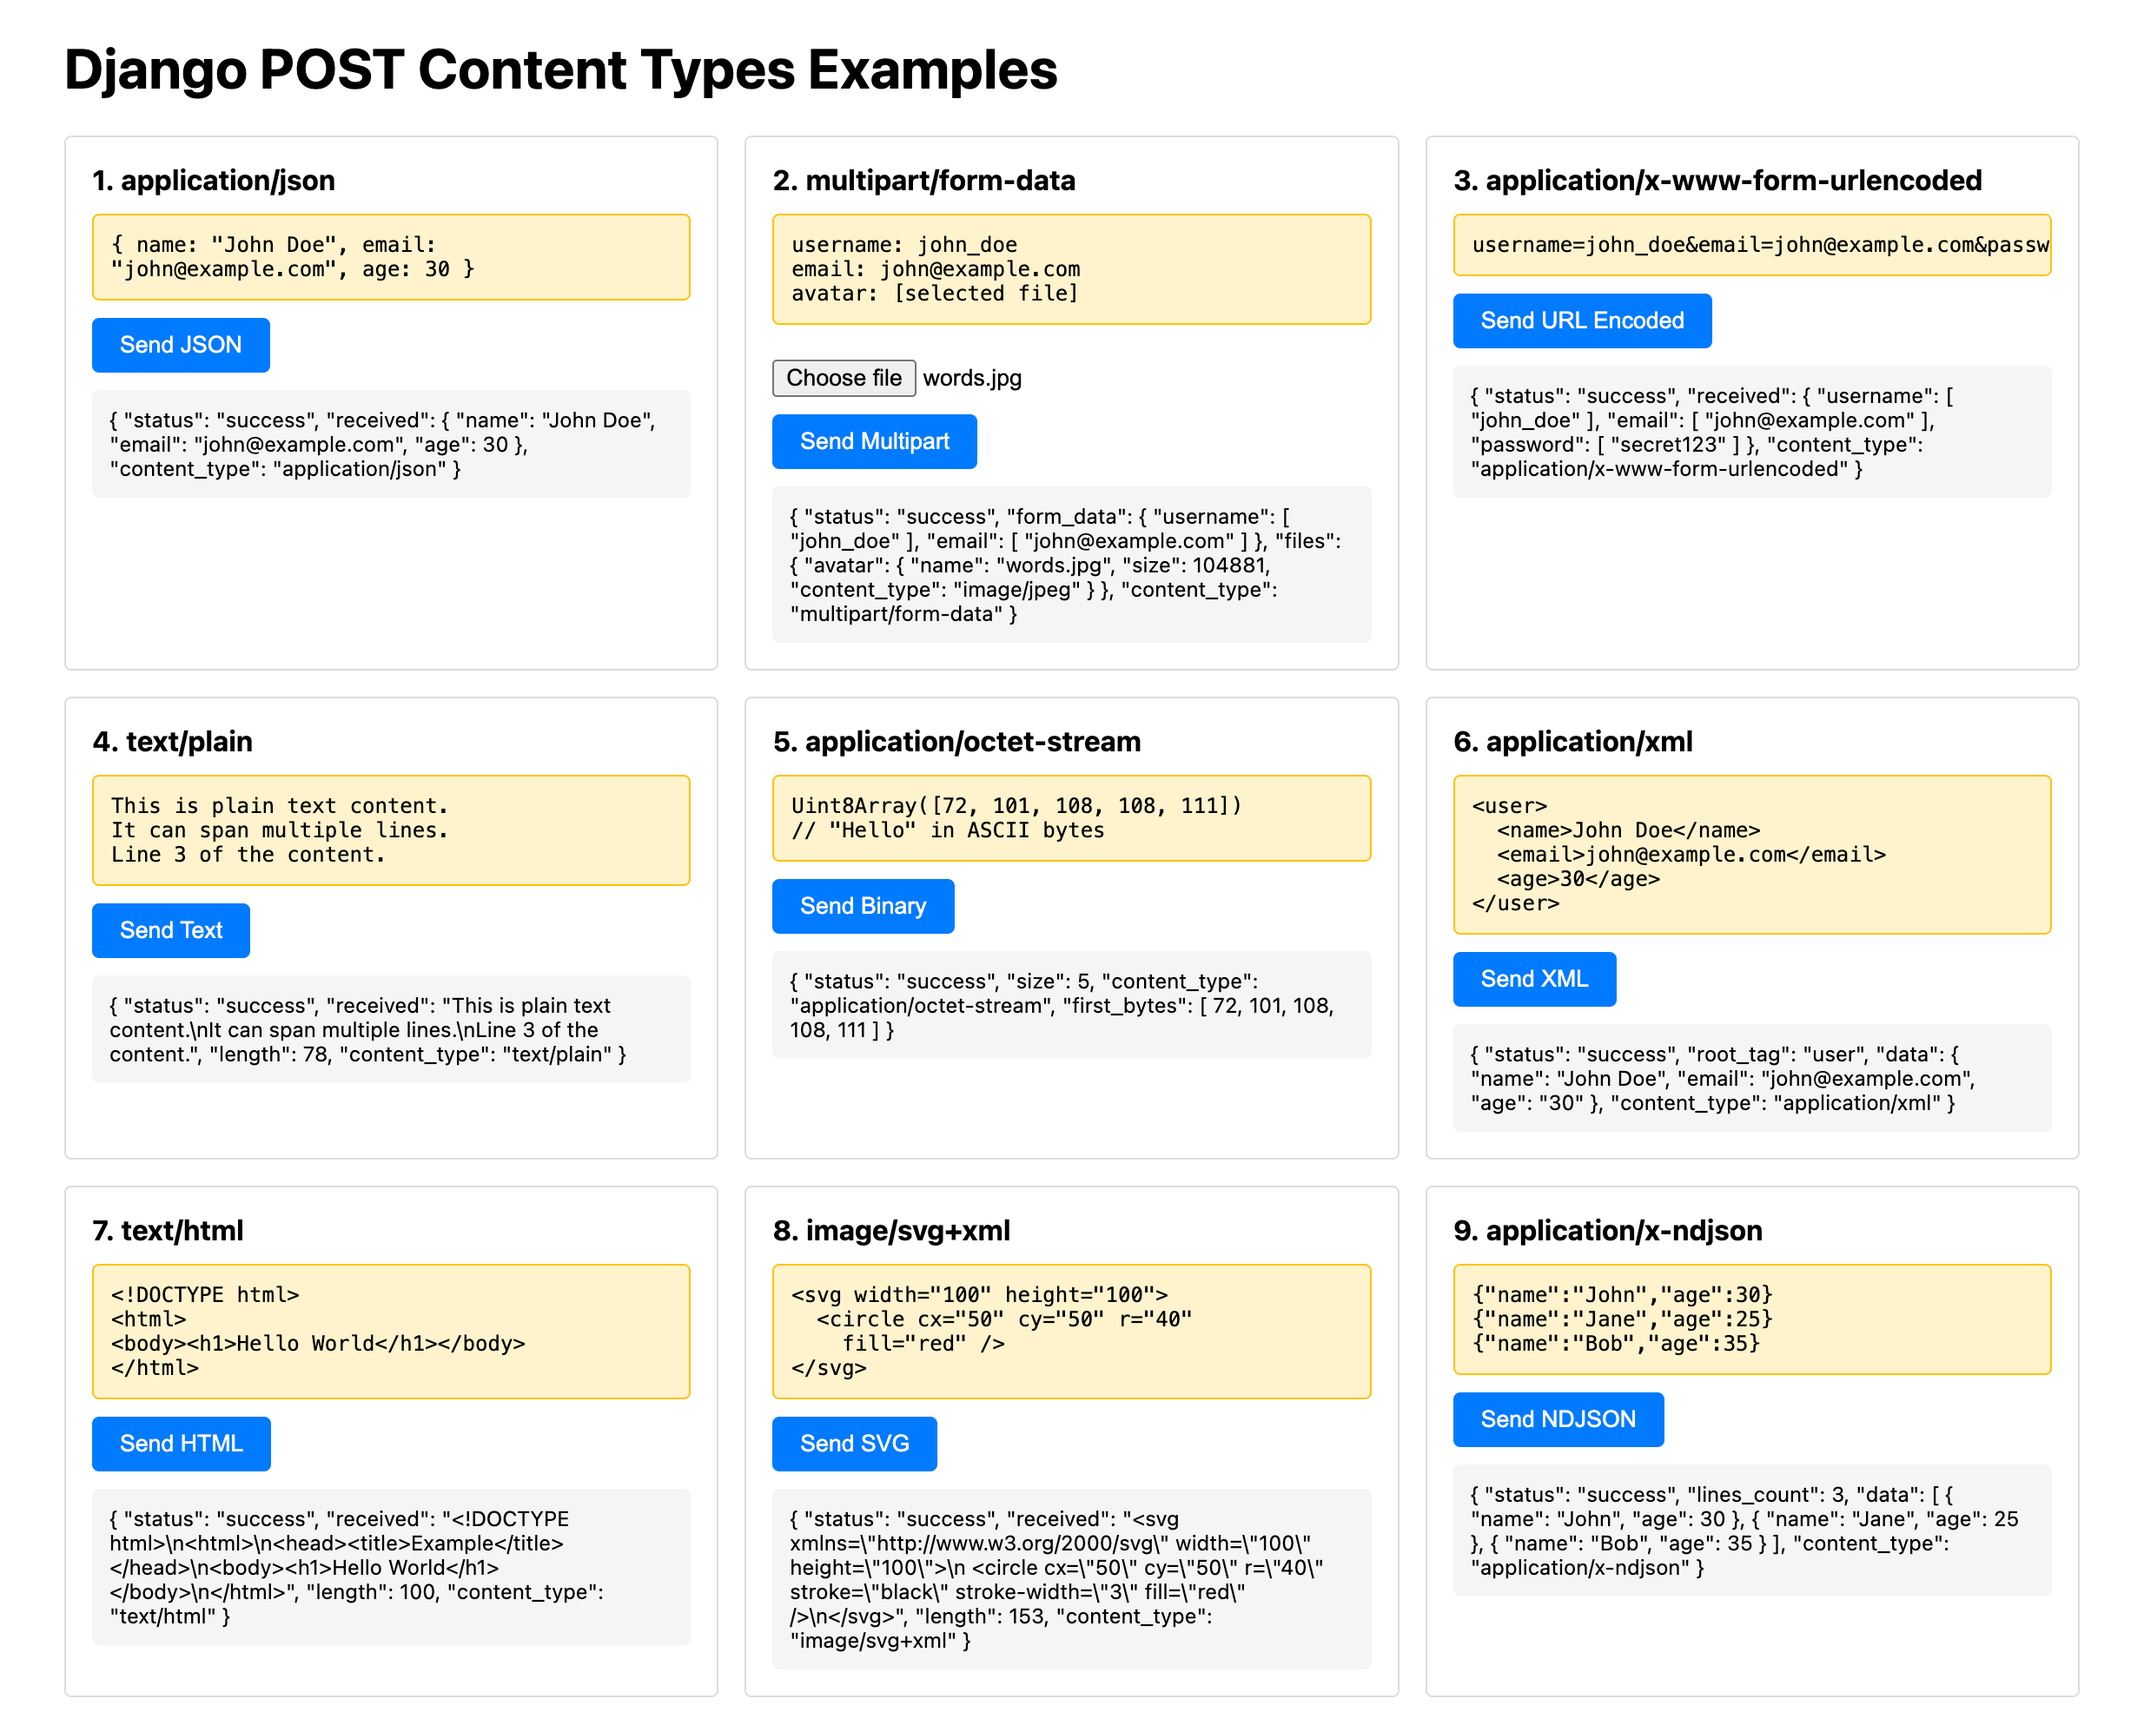
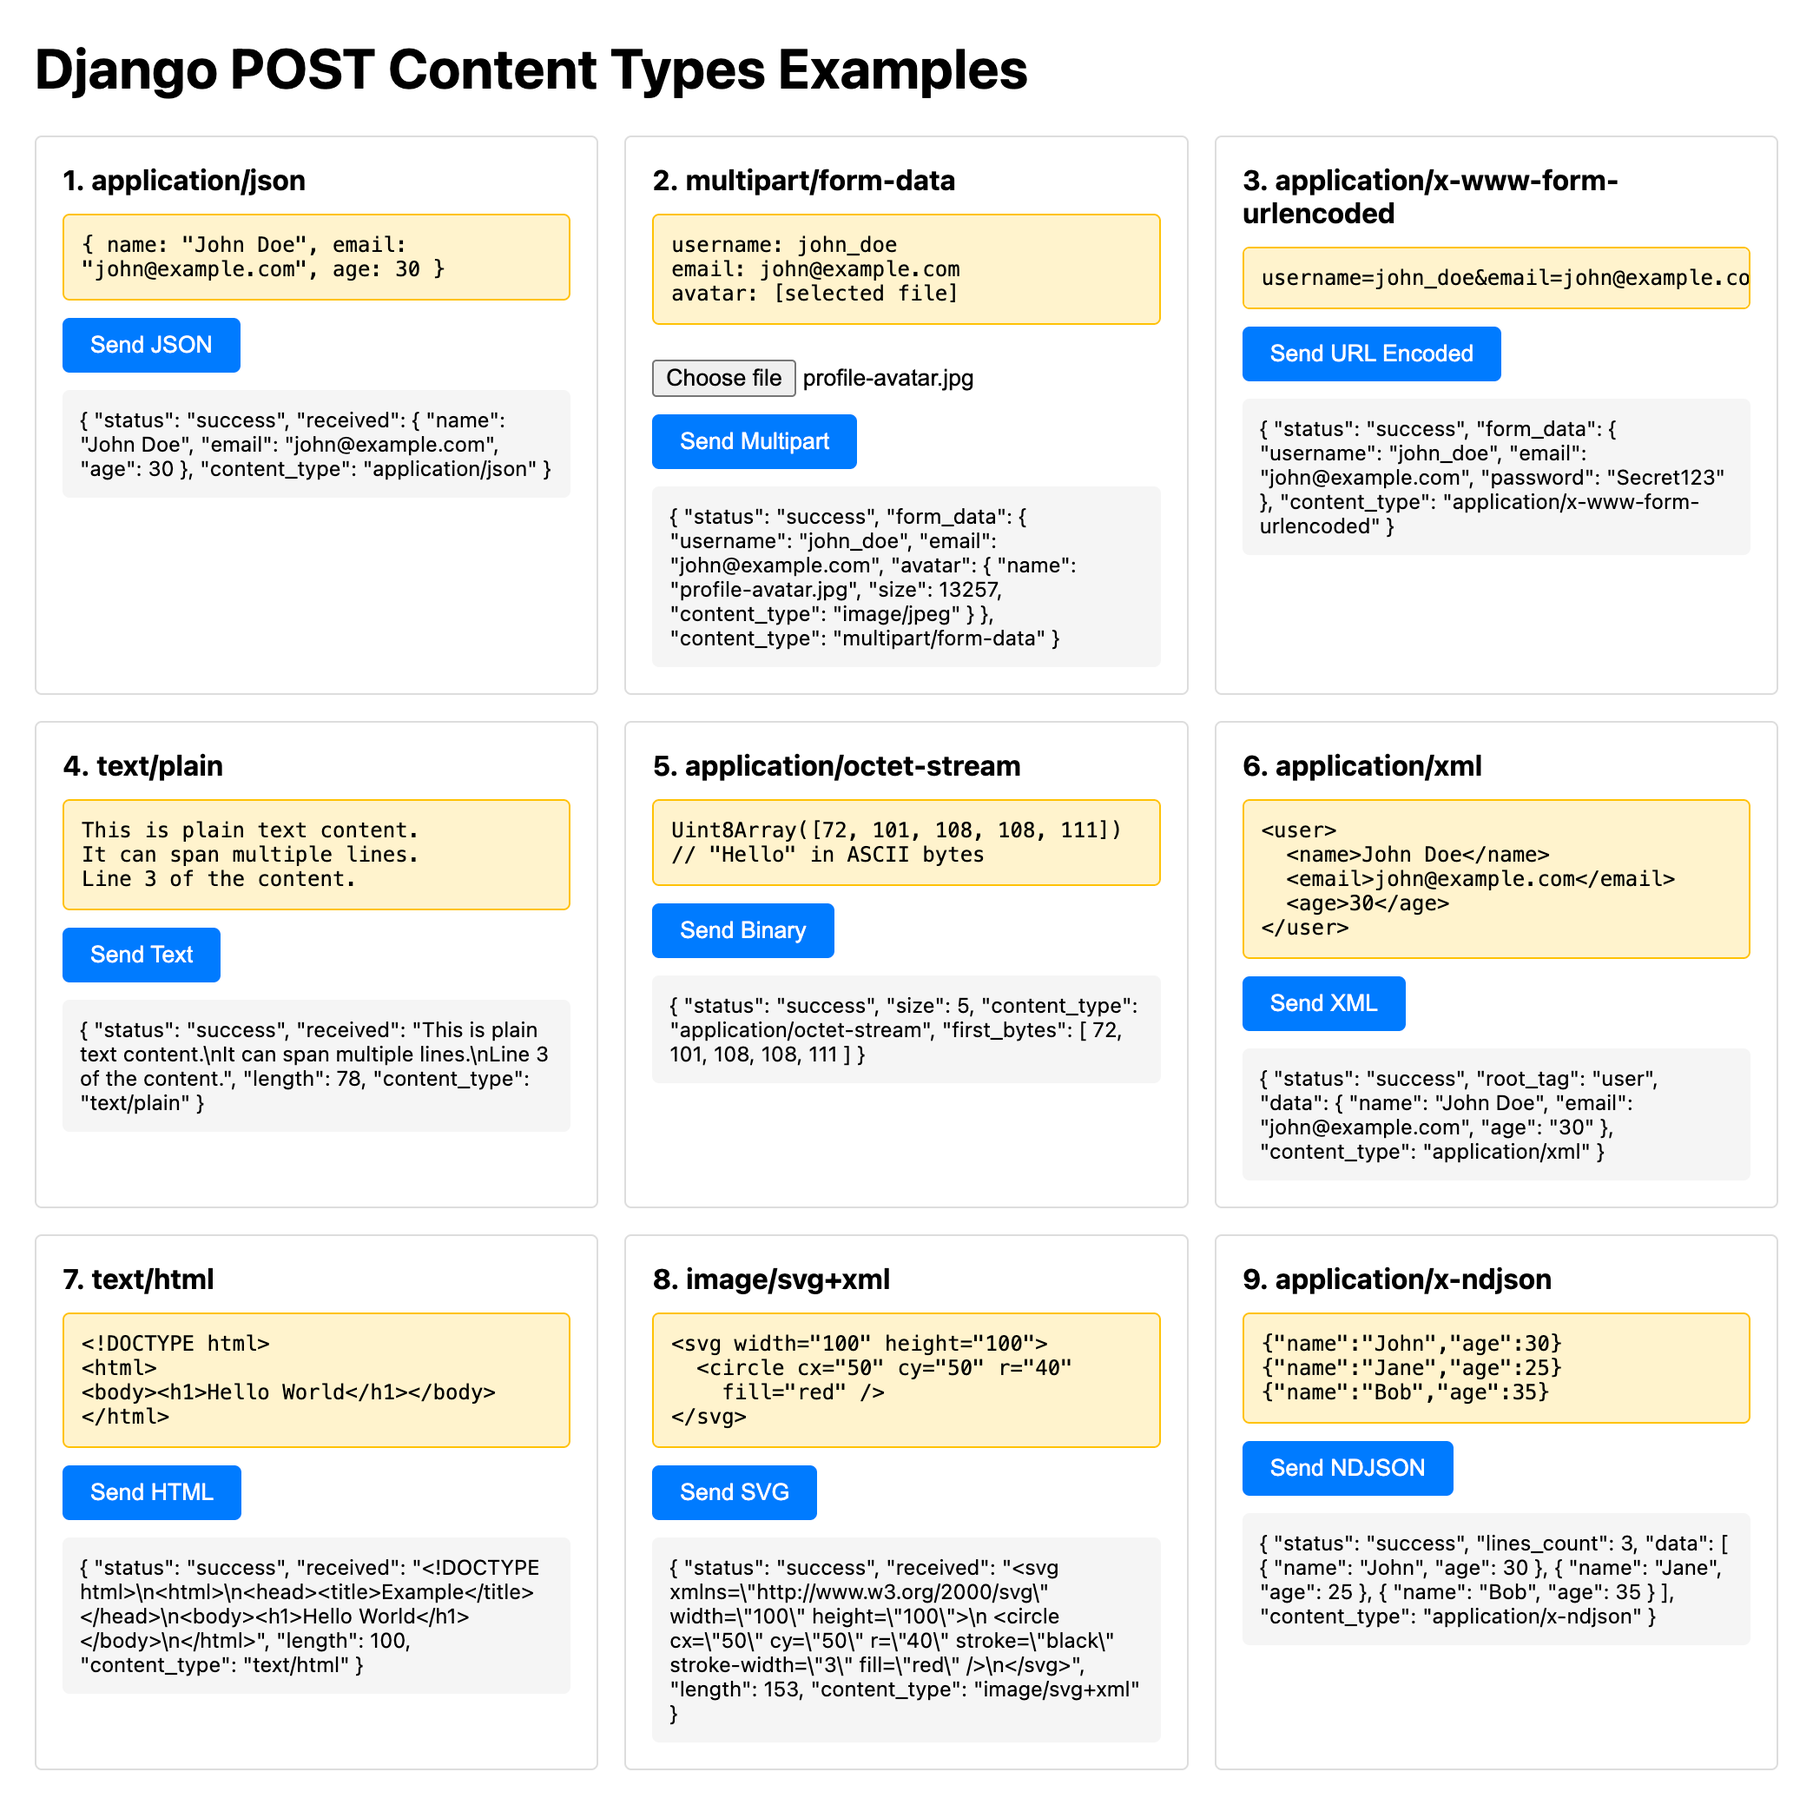
🔨 Added data validation.

diff --git a/templates/index.html b/templates/index.html
@@ -42,7 +42,7 @@ avatar: [selected file]</div>
 
         <div class="card">
             <h2>3. application/x-www-form-urlencoded</h2>
-            <div class="payload">username=john_doe&email=john@example.com&password=secret123</div>
+            <div class="payload">username=john_doe&email=john@example.com&password=Secret123</div>
             <button onclick="sendURLEncoded()">Send URL Encoded</button>
             <div id="urlencoded-response" class="response"></div>
         </div>
@@ -164,7 +164,7 @@ Line 3 of the content.</div>
             const params = new URLSearchParams();
             params.append('username', 'john_doe');
             params.append('email', 'john@example.com');
-            params.append('password', 'secret123');
+            params.append('password', 'Secret123');
 
             const response = await fetch('/api/urlencoded/', {
                 method: 'POST',

diff --git a/django_post_content_types/forms.py b/django_post_content_types/forms.py
@@ -31,7 +31,7 @@ class MultipartForm(forms.Form):
         if avatar:
             if avatar.size > 5 * 1024 * 1024:
                 raise forms.ValidationError('File size cannot exceed 5MB')
-            
+
             allowed_types = ['image/jpeg', 'image/png', 'image/gif', 'image/webp']
             if avatar.content_type not in allowed_types:
                 raise forms.ValidationError(
@@ -47,4 +47,54 @@ class MultipartForm(forms.Form):
                     'Username can only contain letters, numbers, and underscores'
                 )
         return username
+
+
+class URLEncodedForm(forms.Form):
+    username = forms.CharField(
+        max_length=150,
+        required=True,
+        min_length=3,
+        error_messages={
+            'required': 'Username is required',
+            'min_length': 'Username must be at least 3 characters long',
+            'max_length': 'Username cannot exceed 150 characters'
+        }
+    )
+    email = forms.EmailField(
+        required=True,
+        error_messages={
+            'required': 'Email is required',
+            'invalid': 'Please enter a valid email address'
+        }
+    )
+    password = forms.CharField(
+        required=True,
+        min_length=8,
+        error_messages={
+            'required': 'Password is required',
+            'min_length': 'Password must be at least 8 characters long'
+        }
+    )
+
+    def clean_username(self):
+        username = self.cleaned_data.get('username')
+        if username:
+            if not username.replace('_', '').isalnum():
+                raise forms.ValidationError(
+                    'Username can only contain letters, numbers, and underscores'
+                )
+        return username
+
+    def clean_password(self):
+        password = self.cleaned_data.get('password')
+        if password:
+            if password.isdigit():
+                raise forms.ValidationError(
+                    'Password cannot be entirely numeric'
+                )
+            if password.lower() == password or password.upper() == password:
+                raise forms.ValidationError(
+                    'Password must contain both uppercase and lowercase letters'
+                )
+        return password
 

diff --git a/django_post_content_types/views.py b/django_post_content_types/views.py
@@ -4,7 +4,9 @@ from django.views.decorators.csrf import ensure_csrf_cookie
 from django.views.decorators.http import require_http_methods
 import json
 import xml.etree.ElementTree as ET
-from .forms import MultipartForm
+from pydantic import ValidationError
+from .forms import MultipartForm, URLEncodedForm
+from .schemas import JSONDataSchema
 
 
 @ensure_csrf_cookie
@@ -18,15 +20,33 @@ def handle_json(request):
     """Handle application/json requests"""
     try:
         data = json.loads(request.body)
+        validated = JSONDataSchema(**data)
+
         return JsonResponse(
             {
                 "status": "success",
-                "received": data,
+                "received": validated.model_dump(),
                 "content_type": request.content_type,
             }
         )
     except json.JSONDecodeError:
-        return JsonResponse({"error": "Invalid JSON"}, status=400)
+        return JsonResponse(
+            {
+                "status": "error",
+                "error": "Invalid JSON",
+                "content_type": request.content_type
+            },
+            status=400
+        )
+    except ValidationError as e:
+        return JsonResponse(
+            {
+                "status": "error",
+                "errors": e.errors(),
+                "content_type": request.content_type
+            },
+            status=400
+        )
 
 
 @require_http_methods(["POST"])
@@ -68,10 +88,22 @@ def handle_multipart(request):
 @require_http_methods(["POST"])
 def handle_urlencoded(request):
     """Handle application/x-www-form-urlencoded requests"""
+    form = URLEncodedForm(request.POST)
+
+    if not form.is_valid():
+        return JsonResponse(
+            {
+                "status": "error",
+                "errors": form.errors,
+                "content_type": request.content_type,
+            },
+            status=400,
+        )
+
     return JsonResponse(
         {
             "status": "success",
-            "received": dict(request.POST),
+            "form_data": form.cleaned_data,
             "content_type": request.content_type,
         }
     )

diff --git a/django_post_content_types/schemas.py b/django_post_content_types/schemas.py
@@ -1,0 +1,18 @@
+from pydantic import BaseModel, EmailStr, Field, ConfigDict
+
+
+class JSONDataSchema(BaseModel):
+    model_config = ConfigDict(
+        json_schema_extra={
+            "example": {
+                "name": "John Doe",
+                "email": "john@example.com",
+                "age": 30
+            }
+        }
+    )
+
+    name: str = Field(min_length=2, max_length=100, description="User's full name")
+    email: EmailStr = Field(description="Valid email address")
+    age: int = Field(ge=0, le=150, description="User's age")
+
